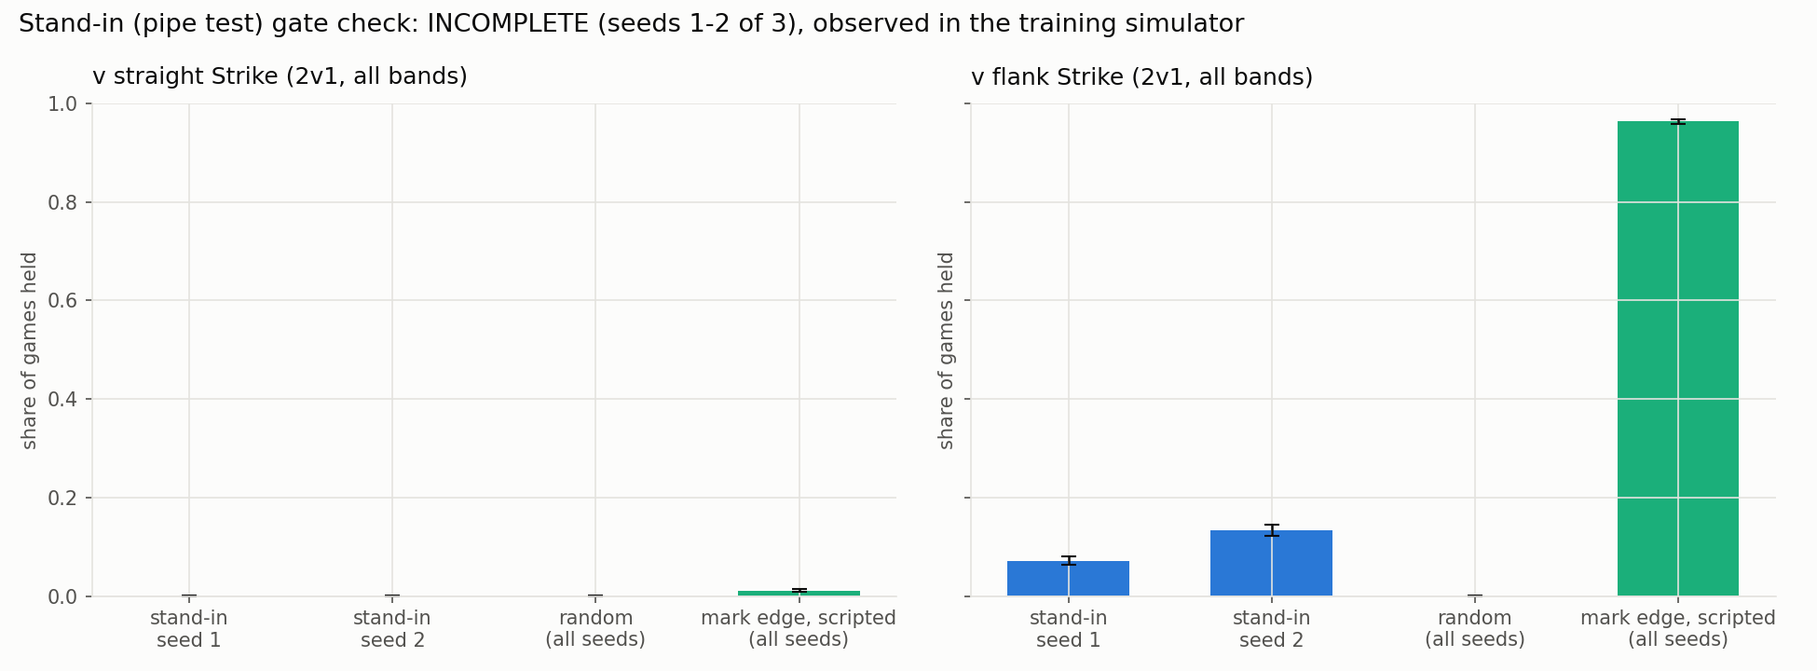
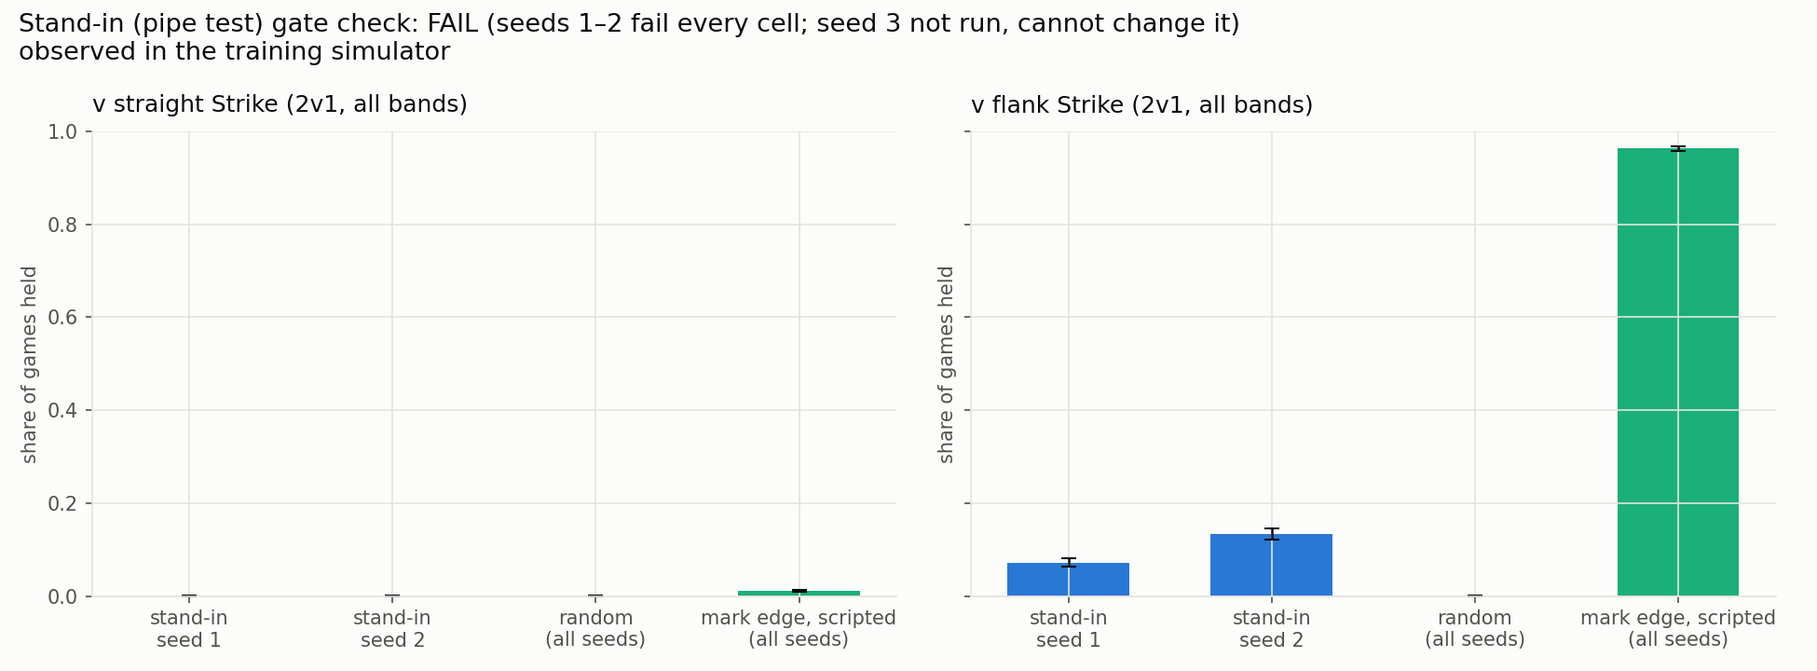
svg_training S2b stand-in fix round 1: T14 is FAIL (both seeds fail every cell), not INCOMPLETE; bars figure from the tool's own verdict (--note); [standin_v2] approval wording (owner not yet confirmed the table); minors

diff --git a/svg_training/scripts/make_s2b_figures.py b/svg_training/scripts/make_s2b_figures.py
@@ -2,7 +2,7 @@
 """Figures for the S2b records: one function per figure (Tasks 7 and 9; Task 8 adds its own).
 
   make_s2b_figures.py standin <out.png> runs/<seed 1 run> [runs/<seed 2 run> ...]
-  make_s2b_figures.py standin_bars <out.png> runs/<group with verdict.json> runs/<seed 1 score> [...]
+  make_s2b_figures.py standin_bars <out.png> runs/<group with verdict.json> runs/<seed 1 score> [...] [--note=<text>]
   make_s2b_figures.py steps <out.png> runs/<step-test run>                      (Task 7, s2b_steps.png)
   make_s2b_figures.py real_replay <out.png> runs/<step-test run>                (Task 7, s2b_real_replay.png)
   make_s2b_figures.py throughput <out.png> runs/<run>/results.jsonl [S0 results.jsonl]   (Task 7, s2b_throughput.png)
@@ -116,7 +116,11 @@ def standin(out: str, *run_dirs: str) -> None:
 
 
 def standin_bars(out: str, group_dir: str, *score_dirs: str) -> None:
-    """Gate evaluation: trained stand-in (per seed), random and guard_mark_edge, per Strike behaviour, Wilson 95 %."""
+    """Gate evaluation: trained stand-in (per seed), random and guard_mark_edge, per Strike behaviour, Wilson 95 %.
+    The title shows verdict.json's verdict as the tool wrote it; an argument ``--note=<text>`` among the score dirs
+    adds <text> in brackets after it (e.g. which seeds ran), so the verdict file is never edited for a figure."""
+    notes = [d[len("--note="):] for d in score_dirs if d.startswith("--note=")]
+    score_dirs = tuple(d for d in score_dirs if not d.startswith("--note="))
     from svg_training.core.metrics import wilson_interval
 
     ver = json.loads((pathlib.Path(group_dir) / "verdict.json").read_text())
@@ -153,7 +157,8 @@ def standin_bars(out: str, group_dir: str, *score_dirs: str) -> None:
         ax.set_xticks(range(len(bars)), [x[0] for x in bars])
         ax.set_ylim(0, 1)
         style(ax, f"v {BEHAVIOUR_LABEL.get(b, b)} Strike (2v1, all bands)", "", "share of games held")
-    fig.suptitle(f"Stand-in (pipe test) gate check: {ver['verdict']}, observed in the training simulator",
+    note = f" ({'; '.join(notes)})" if notes else ""
+    fig.suptitle(f"Stand-in (pipe test) gate check: {ver['verdict']}{note}\nobserved in the training simulator",
                  x=0.01, ha="left", fontsize=13, color=INK)
     fig.tight_layout()
     fig.savefig(out)

diff --git a/svg_training/tests/test_train_standin.py b/svg_training/tests/test_train_standin.py
@@ -651,3 +651,25 @@ def test_stop_at_a_past_time_stops_at_the_first_update(tmp_path):
     assert _in_process(["--seed", "1", "--name", "bad", *ABORT_ARGS, "--stop-at", "8 am",
                         "--runs-dir", str(tmp_path)]) == 2
     assert not (tmp_path / "bad").exists()
+
+
+def test_standin_bars_note_keeps_the_tool_verdict(tmp_path):    # fix round 1: no hand-edited verdict for a title
+    from make_s2b_figures import standin_bars
+    import matplotlib.pyplot as plt
+    seen = {}
+    real = plt.Figure.suptitle
+
+    def spy(self, t, *a, **k):
+        seen["title"] = t
+        return real(self, t, *a, **k)
+    cell = {"seed": 1, "behaviour": "strike_flank", "trained": {"hold_rate": 0.1, "ci_low": 0.08, "ci_high": 0.12,
+                                                                 "games": 3000, "guard_wins": 300},
+            "random": {"hold_rate": 0.0, "ci_low": 0.0, "ci_high": 0.001, "games": 3000, "guard_wins": 0}}
+    (tmp_path / "verdict.json").write_text(json.dumps({"verdict": "FAIL", "cells": [cell]}))
+    plt.Figure.suptitle = spy
+    try:
+        standin_bars(str(tmp_path / "b.png"), str(tmp_path), "--note=seed 3 not run")
+    finally:
+        plt.Figure.suptitle = real
+    assert seen["title"].startswith("Stand-in (pipe test) gate check: FAIL (seed 3 not run)")
+    assert json.loads((tmp_path / "verdict.json").read_text())["verdict"] == "FAIL"

diff --git a/svg_training/tests/test_s2b_config.py b/svg_training/tests/test_s2b_config.py
@@ -15,6 +15,9 @@ from svg_training.core.game_config import (  # noqa: E402
[2 lines of base64/hex data omitted]
 
+# sha256 of configs/s2b.toml [standin_v2] as the T14 runs of record read it (stored in both run folders' interface.toml)
[1 lines of base64/hex data omitted]
+
 S2B_TABLES = {"physics", "agreement", "agreement_gates", "step_tests", "step_gates", "throughput", "compare_games",
               "compare_games_gates", "video", "standin_s2b", "fallback_rate_gains", "tensorboard", "standin_v2"}
 
@@ -104,3 +107,8 @@ def test_s2_standin_tables_unchanged():                     # D14
     text = (CONFIGS / "s2.toml").read_text()
     for name, sha in STANDIN_SHA256.items():
         assert hashlib.sha256(table_text(text, name).encode()).hexdigest() == sha, name
+
+
+def test_standin_v2_table_pinned():                       # T14 runs of record (17 Nov 2026) used exactly this text
+    text = (CONFIGS / "s2b.toml").read_text()
+    assert hashlib.sha256(table_text(text, "standin_v2").encode()).hexdigest() == STANDIN_V2_SHA256

diff --git a/svg_training/records/2026-11-17_s2b_standin_isaac_record.md b/svg_training/records/2026-11-17_s2b_standin_isaac_record.md
@@ -2,15 +2,15 @@ Observed in the training simulator (tier 2, Isaac Lab), physics drone with the s
 
 # 2026-11-17T03:36:29+08:00 2026-11-17_s2b_standin_isaac record
 
-Result: **INCOMPLETE** against `[standin_gates]` of `configs/s2.toml` (unchanged): 2 of the 3 required seeds ran on this laptop; seed 3 was not started here and is queued for the home RTX 5090. Both seeds that ran fail their own gate cells (see Gates), so the gate cannot pass when seed 3 is added. Ledger row T14. Observed in the training simulator; nothing here is a flight result.
+Result: **FAIL** against `[standin_gates]` of `configs/s2.toml` (unchanged): seeds 1–2 fail every cell; seed 3 not run, cannot change it (the gate needs all 3 seeds to pass). Seed 3 was not started on this laptop and is queued for the home RTX 5090, to complete the record. Ledger row T14. Observed in the training simulator; nothing here is a flight result.
 
 ## What this run shows
 
-- **The pipe works on the Isaac Lab drones.** Each seed trained the full 100 M game-steps of `[standin_v2]` (762 updates, 4,096 games), with no NaN, no upset drone and no non-finite wrench. Each run folder loaded in `score.py` as a Guard strategy and was scored on the physics drone.
-- **Against the straight Strike drone nothing was learned.** Both seeds hold 0 of 3,000 games, the same as random Guards (0 of 3,000). The scripted reference `guard_mark_edge` holds only 1.1 % on the same games. In most of these games the stand-in Guard drones were not in the Strike drone's way: the median horizontal closest approach is 1.04–1.92 m, and the games end about as early as with random Guards (mean end step 96–217 against 84–217). In a few games a Guard drone did get in the way (5th percentile 0.41–0.67 m horizontally, 1.05–1.10 m in 3-D) and the Strike drone still got through, which is consistent with T13's over/under passing; this run did not test that.
-- **Against the flank Strike drone a little was learned, far short of the gate.** Here the Guard drones do meet the Strike drone: the median horizontal closest approach is 0.02–0.14 m in the lab and middle bands while the 3-D one stays near 1.0 m, so the drones pass one above the other (as in T13). Seed 1 holds 7.2 % (215 of 3,000) and seed 2 13.3 % (400 of 3,000), against random 0 % and `guard_mark_edge` 96.3 % (both seeds' games). The gate asks for at least 20 points above random. Both seeds started holding only after 40–60 M game-steps (figure 1).
+- **The pipe works on the Isaac Lab drones.** Each seed trained the 100 M game-steps of `[standin_v2]` (99,999,744 = 24,414 timesteps × 4,096 games; 762 updates, the last 30 timesteps collected after the last update), with no NaN, no upset drone and no non-finite wrench. Each run folder loaded in `score.py` as a Guard strategy and was scored on the physics drone.
+- **Against the straight Strike drone nothing was learned.** Both seeds hold 0 of 3,000 games, the same as random Guards (0 of 3,000). The scripted reference `guard_mark_edge` holds only 1.1 % on the same games. In most of these games the stand-in Guard drones were not in the Strike drone's way: the median horizontal closest approach is 1.04–1.92 m, and the games end about as early as with random Guards (mean end step 96–216 against 84–217). In a few games a Guard drone did get in the way (5th percentile 0.41–0.67 m horizontally, 1.05–1.10 m in 3-D) and the Strike drone still got through, which is consistent with T13's over/under passing; this run did not test that.
+- **Against the flank Strike drone a little was learned, far short of the gate.** Here the Guard drones do meet the Strike drone: the median horizontal closest approach is 0.02–0.14 m in the lab and middle bands while the 3-D one stays near 1.0 m, so the drones pass one above the other (as in T13). Seed 1 holds 7.2 % (215 of 3,000) and seed 2 13.3 % (400 of 3,000), against random 0 % and `guard_mark_edge` 96.3 % (both seeds' games). The gate asks for at least 20 points above random. The learning curve first shows a hold v flank between 31 and 42 M game-steps for seed 2 and between 52 and 63 M for seed 1; the curve points are 10.5 M apart (figure 1), so the start is known only to that spacing.
 - **Closest approach (3-D, scoring games):** the stand-in Guard drones come to 0.95 m (seed 1) and 0.95 m (seed 2) from a Strike drone, under the 1.10 m keep-out, as the scripted Guards do on the physics drone (`guard_mark_edge` 0.92–0.95 m). Random Guards come closer, 0.63–0.77 m. No scoring game had an upset drone.
-- **For the end goal:** the stand-in learner with `[standin_v2]` does not learn to hold on the physics drone in 100 M game-steps. On pure partner rules the same settings reached 0.06–0.32 v straight (Step B pilots). The likely difference is the game on the physics drone, where Strike drones can pass vertically (owner's option (a): this stays in the game; the Guard team must cover height); no tier 1 control run was made here, so this is not tested.
+- **For the end goal:** the stand-in learner with `[standin_v2]` does not learn to hold on the physics drone in 100 M game-steps. On pure partner rules the same settings reached 0.06–0.32 v straight (Step B pilots). The likely difference is the game on the physics drone, where Strike drones can pass vertically (owner's option (a): this stays in the game; the Guard team must cover height); no tier 1 control run was made here, so this is not tested. Also observed (from the saved networks): by 100 M the log std of vx, vy and vz fell from −1.6 to −2.5 … −3.2 (std about 0.04–0.08) in both seeds, so exploration had largely stopped while the hold v straight was still 0.
 
 ## Purpose
 
@@ -18,7 +18,9 @@ S2b Task 9, run 2: train the stand-in (2 Guard drones, skrl IPPO) against the sc
 
 ## Settings
 
[2 lines of base64/hex data omitted]
+- Lead's rulings behind two brief deviations: no PyTorch control run (run 1) tonight, the Step B pilots being the pure-rules control (`runs/sdd/s2b/progress.md`, 17 Nov); Isaac on the host, not the container, because the container has skrl 1.4.3 and the trainer needs skrl 2.x (same file).
+- `interface.toml [settings_values]` holds the table as read, including `preset = "pure"`, `wall_clock_cap_min = 45` and `seeds = [1, 2, 3]`; for these physics runs the effective values are in `[training]` and at the top level (preset physics, cap 180 min).
 - Owner's game-design ruling (17 Nov, option a): vertical over/under passing stays in the game, so for `physics` the vz axis is trained.
 - Command per seed: `train_standin.py --headless --config configs/s2.toml --settings standin_v2 --seed <s> --name 2026-11-17_s2b_standin_isaac_seed<s> --motion physics --eval-every-updates 80 --stop-at 2026-11-17T07:58:00` (host conda `env_isaaclab`).
 - **Deviation: learning-curve evaluation every 80 updates, not the default 20.** On the physics drone one evaluation flies the whole 4,096-game world for up to 1,200 steps (about 75–150 s). At 20 updates the evaluations alone would have cost about 90 min per seed and only one seed would have fitted before the laptop was packed. This is not expected to change training: the evaluation games use their own generator and the whole world state is written back after each one. That write-back was shown bit-exact on the PyTorch reference world only; on PhysX it is not verified (Task 9 report, concern 4). The curves have 11 points per seed instead of 40. The same value was used for both seeds.
@@ -37,15 +39,15 @@ S2b Task 9, run 2: train the stand-in (2 Guard drones, skrl IPPO) against the sc
 | 2 | flank | 0.133 (0.122–0.146) | 0.000 (0.000–0.001) | +0.133 | FAIL |
 | 3 | both | not run on the laptop; queued for the 5090 | | | — |
 
-Verdict: **INCOMPLETE** (2 of 3 seeds). `train_standin.py verdict` over the two seeds says FAIL because it needs 3 seeds; its output is kept in `runs/2026-11-17_s2b_standin_isaac/verdict_seeds_1_2/verdict.json`. No gate was moved.
+Verdict: **FAIL** (seeds 1–2 fail every cell; seed 3 not run, cannot change it). `train_standin.py verdict` over the two seeds gives FAIL with no seed passing (`seeds_passed = []`); a PASS needs every seed to pass and at least 3 seeds, so no seed 3 can turn it into a PASS. Its output is kept unedited in `runs/2026-11-17_s2b_standin_isaac/verdict_seeds_1_2/verdict.json`, and figure 2 is drawn from it. No gate was moved.
 
 ![Learning curves, seeds 1 and 2](../docs/figures/s2b_standin_isaac_curves.png)
 
-*Figure 1. Learning curves on the physics drone (256 evaluation games, mean actions; evaluation seed = gate seed, so not used to pick a checkpoint). Hold rate v straight stays 0; v flank rises after 40–60 M game-steps to about 0.1. Training speed rose once the other Isaac jobs left the GPU.*
+*Figure 1. Learning curves on the physics drone (256 evaluation games, mean actions; evaluation seed = gate seed, so not used to pick a checkpoint). Hold rate v straight stays 0; v flank first rises above 0 between 31 and 42 M game-steps (seed 2) and 52 and 63 M (seed 1), to about 0.1; points are 10.5 M apart. Training speed rose once the other Isaac jobs left the GPU.*
 
 ![Gate bars](../docs/figures/s2b_standin_isaac_bars.png)
 
-*Figure 2. Scoring games, 2v1, 3,000 per bar (Wilson 95 %): stand-in per seed, random and the scripted `guard_mark_edge` (information). Title says INCOMPLETE: seeds 1–2 of 3.*
+*Figure 2. Scoring games, 2v1, Wilson 95 %: stand-in per seed (3,000 games each), random and the scripted `guard_mark_edge` (information; 6,000 games each, both seeds' games pooled). Title: the tool's verdict (FAIL) as written, plus a note on the seeds (`--note`).*
 
 ## Per seed
 
@@ -69,7 +71,8 @@ Verdict: **INCOMPLETE** (2 of 3 seeds). `train_standin.py verdict` over the two 
 ## Commit
 
 - Training, seed 1: `997a5d2-dirty`; seed 2: `a288d69-dirty` (as each `interface.toml` says). The commits between them add only `scripts/workstation/` files. No file under `source/`, `configs/` or `params/`, and neither `scripts/train_standin.py` nor `scripts/score.py`, changed on disk after 03:36 (seed 1's start; checked by modification time at the end), so both seeds ran the same training and scoring code. The files that did change after 03:36: `scripts/workstation/*`, `scripts/make_s2b_flowchart.py`, `scripts/compare_backends.py`, `scripts/diag_vertical_pass.py` (other sessions) and `scripts/make_s2b_figures.py` (this task, the figure only).
-- Scoring (`scores.json` meta): seed 1 commit `a288d69`, code fingerprint `0395a6ffb496`; seed 2 commit `a3e1039`, code fingerprint `7236b4691a3a` (the fingerprint hashes all of source/, scripts/ and configs/, so it moves with any edit there).
+- Scoring (`scores.json` meta): seed 1 gate scoring commit `a288d69`, code fingerprint `0395a6ffb496`; seed 1 `guard_mark_edge` scoring commit `c4d722d`, fingerprint `fbcfdd12b4fb`; seed 2 gate and `guard_mark_edge` scoring commit `a3e1039`, fingerprint `7236b4691a3a` (the fingerprint hashes all of source/, scripts/ and configs/, so it moves with any edit there).
+- `git diff 997a5d2..a3e1039` also touches `scripts/score.py` and `source/svg_training/core/play.py` (Task 8). Those files were already on disk (modified 00:46 and 00:48) before seed 1 started at 03:36, so they were part of seed 1's `-dirty` tree too.
 
 ## Config
 
@@ -97,7 +100,7 @@ Training game-steps per second (training time only): seed 1 19.8–31.1 k (share
 
 ## Files
 
-- `runs/2026-11-17_s2b_standin_isaac/`: `gates.toml`, `preflight_seed1.txt` (exit 11), `preflight_seed2.txt` (exit 0), `launched.txt`, `verdict_seed1_only/`, `verdict_seeds_1_2/` (the tool output), `bars_input/verdict.json` (a copy whose verdict text reads INCOMPLETE, used only for the figure title), `curves_table.md`, `bars_table.md` (the numbers plotted).
+- `runs/2026-11-17_s2b_standin_isaac/`: `gates.toml`, `preflight_seed1.txt` (exit 11), `preflight_seed2.txt` (exit 0), `launched.txt`, `verdict_seed1_only/`, `verdict_seeds_1_2/` (the tool output), `curves_table.md`, `bars_table.md` (the numbers plotted).
 - `runs/2026-11-17_s2b_standin_isaac_seed{1,2}/` (interface.toml, agent.pt, curve.json, train_result.json, TensorBoard files) and their `.log`.
 - `runs/2026-11-17_s2b_standin_isaac_seed{1,2}_score/` (trained + random) and `..._score_mark_edge/` (information), with logs.
 - Figures: `docs/figures/s2b_standin_isaac_curves.png`, `docs/figures/s2b_standin_isaac_bars.png`.

diff --git a/svg_training/docs/S2B_RESULTS.md b/svg_training/docs/S2B_RESULTS.md
@@ -10,7 +10,7 @@ got here, step by step: [WHAT_WE_DID](WHAT_WE_DID.md#8-s2b-the-game-on-isaac-lab
 | Item | Value |
 |---|---|
 | Runs | T10 (do the two physics worlds agree), T11 (step tests against tier 1 and a real flight log), T12 (speed), T13 (scripted games on both backends), T14 (the stand-in trainer on Isaac Lab, 2 of 3 seeds) |
-| Verdicts | T10 **FAIL** on one gate (accepted by the owner); T11 **FAIL** on three gates; T12 information only, no gates; T13 **FAIL** on two gates; T14 **INCOMPLETE** (seed 3 not run; seeds 1 and 2 fail every gate cell, so it cannot pass) |
+| Verdicts | T10 **FAIL** on one gate (accepted by the owner); T11 **FAIL** on three gates; T12 information only, no gates; T13 **FAIL** on two gates; T14 **FAIL** (seeds 1–2 fail every gate cell; seed 3 not run, cannot change it) |
 | Main result | with random actions, the game runs on Isaac Lab drones at 42,590–262,190 drone-steps a second on this laptop. That is above 20,000, S0's [decision rule](S0_RESULTS.md#decision-rules--training-simulator-only) for "tier 2 is fast enough to train on, not only to cross-check" |
 | Main finding | on the physics drone a Strike drone often passes over or under a Guard drone, so against a straight Strike the scripted Guards hold 0–13 % of games, where tier 1 gave up to 95.1 %. The owner chose to keep this in the game (17 November 2026; option (a) of three put to him, §4) |
 | Trained | no strategy. The stand-in trainer (a pipe test, not a strategy) trained 2 seeds on Isaac Lab; the pipe worked end to end, but the Guards learned almost nothing (T14) |
@@ -219,8 +219,8 @@ pilots (pure rules, not of record) it held no games against the straight Strike.
   pure rules, yaw rate only on the Starling layer and the physics drone, where height speed now matters;
 - 100 million game-steps per seed instead of 50 million.
 
-The pilots' notes are not of record and not in git. The owner approved these settings for the runs of record on
-17 November 2026 ([T14 record](../records/2026-11-17_s2b_standin_isaac_record.md#settings)).
+The pilots' notes are not of record and not in git. `[standin_v2]` was taken as approved by the lead from the owner's go-ahead for Isaac runs (17 November, 03:25); the owner has not yet confirmed the table itself.
+([T14 record](../records/2026-11-17_s2b_standin_isaac_record.md#settings)).
 
 #### 5a. On the physics drone in Isaac Lab
 
@@ -239,14 +239,14 @@ per Strike behaviour and checked against the gate. SIM-ONLY yaw-rate gains
 
 **Figure 9.** Learning curves, seed 1 (blue) and seed 2 (orange), against game-steps: hold rate against each Strike
 behaviour (256 evaluation games), the game reward, the closest 3-D Guard–Strike approach, the safety-filter share and
-the training speed. Hold v straight stays at 0; v flank rises to about 0.1 after 40–60 M game-steps. Training
+the training speed. Hold v straight stays at 0; v flank first rises above 0 between 31 and 42 M game-steps (seed 2) and between 52 and 63 M (seed 1), points 10.5 M apart, to about 0.1. Training
 simulator, tier 2.
 
 <a id="fig-10"></a>
 ![Hold rate of the stand-in, random Guards and scripted mark-edge Guards, against each Strike behaviour](figures/s2b_standin_isaac_bars.png)
 
-**Figure 10.** Share of scoring games held, 2 v 1, 3,000 games per bar with 95 % intervals: stand-in seeds 1 and 2,
-random Guards and the scripted mark-edge Guards (for comparison). Left: against the straight Strike; right: against
+**Figure 10.** Share of scoring games held, 2 v 1, with 95 % intervals: stand-in seeds 1 and 2 (3,000 games each),
+random Guards and the scripted mark-edge Guards (for comparison; 6,000 games each, both seeds' games pooled). Left: against the straight Strike; right: against
 the flank Strike. The gate asks for the stand-in at least 0.20 above random in both panels.
 
 **What it shows.** The pipe works on the Isaac Lab drones: both seeds trained the full 100 M game-steps with no NaN
@@ -273,7 +273,7 @@ rules stand in as a control for now, but they are not runs of record. The PyTorc
 | T11 | step tests | 6 of 9 pass; timing against the real log (0.38 s against 0.10 s), speed against tier 1 (0.29 against 0.10 m/s) and timing against tier 1 (0.99 against 0.10 s) fail | **FAIL** | [T11](../records/2026-11-16_s2b_step_tests_record.md) |
 | T12 | speed | none; read-off 262,190 drone-steps a second, S0 line 20,000 | **INFO** | [T12](../records/2026-11-16_s2b_throughput_record.md) |
 | T13 | scripted games, paired | 2 of 4 pass (upsets, NaN); hold-rate gap (36 of 60 cells over 0.10) and closest approach (4 random-Guard cells over 0.10 m) fail | **FAIL** | [T13](../records/2026-11-17_s2b_scripted_compare_record.md) |
-| T14 | stand-in, Isaac Lab | `[standin_gates]`: seeds 1 and 2 fail all four cells (gain +0.000 v straight, +0.072 and +0.133 v flank, gate +0.20); seed 3 not run | **INCOMPLETE**, cannot pass | [T14](../records/2026-11-17_s2b_standin_isaac_record.md) |
+| T14 | stand-in, Isaac Lab | `[standin_gates]`: seeds 1 and 2 fail all four cells (gain +0.000 v straight, +0.072 and +0.133 v flank, gate +0.20); seed 3 not run | **FAIL** (seed 3 not run, cannot change it) | [T14](../records/2026-11-17_s2b_standin_isaac_record.md) |
 | — | stand-in, PyTorch (pure, Starling layer) | `[standin_gates]` | **NOT RUN** | — |
 | — | clips | none (pictures) | — | [media/README](media/README.md) |
 
@@ -301,7 +301,7 @@ All rows are in the [training ledger](../records/LEDGER.md).
 
 | # | Item | Why it matters | Recommendation |
 |---|---|---|---|
-| A | The stand-in on Isaac Lab (**NEAR-968: Stand-in trainer: prove the training pipe end to end.**) | T14 is INCOMPLETE: seed 3 is queued for the home RTX 5090, but seeds 1 and 2 already fail every gate cell. The pipe works; the learner does not learn to hold the zone on the physics drone | owner: whether seed 3 still runs on the 5090, and what to do about a stand-in that does not learn (a different learner, a curriculum, a tier 1 control run, or a new gate) is his call |
+| A | The stand-in on Isaac Lab (**NEAR-968: Stand-in trainer: prove the training pipe end to end.**) | T14 is FAIL: seeds 1 and 2 fail every gate cell; seed 3 (queued for the home RTX 5090) cannot change it. The pipe works; the learner does not learn to hold the zone on the physics drone | owner: whether seed 3 still runs on the 5090, and what to do about a stand-in that does not learn (a different learner, a curriculum, a tier 1 control run, or a new gate) is his call |
 | B | T13's hold-rate FAIL | it follows from option (a): the Strike drone now passes over or under scripted Guards that never move up or down | the FAIL stands; whether the S2b scripted-games gate is re-scoped later is the owner's call |
 | C | T13's 4 random-Guard closest-approach cells | the physics drones came 0.12–0.23 m closer than on tier 1 at their minimum; not diagnosed | owner decides whether to diagnose before S4 |
 | D | Task 8b, the registered Isaac Lab task `Isaac-SvG-StrikeGuard-v0` | the owner's answer 1: lets partners use Isaac Lab's usual tools and trainers | planned and not yet built; next session |

diff --git a/svg_training/records/LEDGER.md b/svg_training/records/LEDGER.md
@@ -17,4 +17,4 @@ Training ledger; separate from the flight ledger `docs/record/LEDGER.md`
 | T11 | 2026-11-16T23:57:14+08:00 | training simulator, tier 2 (Isaac Lab: rigid-body Starling, PX4 1.14 cascade, SIM-ONLY yaw-rate gains) and tier 1 (Starling layer, exploratory drone model), against real flight log log103 (13 Nov, drone_2) | 2026-11-16_s2b_step_tests | S2b step tests: hover 10 s, 5 steps through the full layers (physics vs tier 1), 6 held-out legs of log103 replayed at setpoint level; 30 deg tilt and PyTorch world INFO | FAIL | records/2026-11-16_s2b_step_tests_record.md |
 | T12 | 2026-11-17T00:18:38+08:00 | training simulator, tier 2 (Isaac Lab: rigid-body Starlings, PX4 1.14 cascade, SIM-ONLY yaw-rate gains; commander copy and safety filter on every pair) | 2026-11-16_s2b_throughput | S2b throughput: game on the physics drone, random actions, 2v1 and 5v3 x 1024 / 2048 / 4096 games, one process per point; best 262,190 drone-steps/s (S0 decision line 20,000) | INFO (no gates) | records/2026-11-16_s2b_throughput_record.md |
 | T13 | 2026-11-17T01:15:24+08:00 | training simulator, tier 2 (Isaac Lab: rigid-body Starlings, PX4 1.14 cascade, SIM-ONLY yaw-rate gains) against tier 1 (Starling layer, exploratory drone model); commander copy and safety filter on every pair; shared GPU | 2026-11-17_s2b_scripted_compare | S2b paired scripted games: 5 Guard x 2 Strike scripted strategies, 2v1 and 5v3, 3 bands, 1000 paired games per cell, neutral values (--no-local); 36 of 60 cells over the 0.10 hold gap (on the physics drone Strike drones pass over or under the Guards; the owner kept this in the game), 4 random-Guard cells over the 0.10 m closest-approach gap, 0 upsets, 0 NaN | FAIL | records/2026-11-17_s2b_scripted_compare_record.md |
-| T14 | 2026-11-17T03:36:29+08:00 | training simulator, tier 2 (Isaac Lab: rigid-body Starlings, PX4 1.14 cascade, SIM-ONLY yaw-rate gains; commander copy and safety filter on every pair); shared GPU | 2026-11-17_s2b_standin_isaac | S2b stand-in (pipe test) on the physics drone, settings [standin_v2] (owner-approved 17 Nov), 100 M game-steps per seed, seeds 1-2 trained and scored (2v1, 3 x 1000 games per behaviour); seed 3 queued for the RTX 5090. Hold v straight 0.000 / 0.000, v flank 0.072 / 0.133 (random 0.000) | INCOMPLETE (2 of 3 seeds; both seeds fail their cells) | records/2026-11-17_s2b_standin_isaac_record.md |
+| T14 | 2026-11-17T03:36:29+08:00 | training simulator, tier 2 (Isaac Lab: rigid-body Starlings, PX4 1.14 cascade, SIM-ONLY yaw-rate gains; commander copy and safety filter on every pair); shared GPU | 2026-11-17_s2b_standin_isaac | S2b stand-in (pipe test) on the physics drone, settings [standin_v2] (owner-approved 17 Nov), 100 M game-steps per seed, seeds 1-2 trained and scored (2v1, 3 x 1000 games per behaviour); seed 3 queued for the RTX 5090. Hold v straight 0.000 / 0.000, v flank 0.072 / 0.133 (random 0.000) | FAIL (seeds 1–2 fail every cell; seed 3 not run, cannot change it) | records/2026-11-17_s2b_standin_isaac_record.md |

diff --git a/svg_training/docs/DESIGN.md b/svg_training/docs/DESIGN.md
@@ -159,7 +159,7 @@ Each step ends on a number. S0–S5 deliver use 1.
 | **S0 Measure** | the project skeleton; minimal tier 1 and tier 2 environments with random actions; tier 1 with 0, 10 and 50 obstacles, range rays, line of sight and a stand-in distance field | steps per second against number of games recorded for both tiers on the laptop (done: T1, [S0_RESULTS](S0_RESULTS.md)) and a training workstation (to do), with a compute budget for S2–S4 |
 | **S1 Drone model** | velocity-step logs at the plug-in point (none exist yet; recorded by running `tools/sim.sh`, approved by the owner on 14 November 2026); stage 1 fitting script; tier 1 model; the safety filter port | fitted model reproduces a velocity step from the AirStack simulator within a limit set beforehand; filter port matches `cbf_filter.py` on recorded inputs |
 | **S2 One against one** | open arena (E0); game rules with contact tags, scripted opponents, evaluation suite, records | unit tests pass without Isaac; a trained Guard policy tags the scripted Strike behaviours at a rate set beforehand; that rate decides the control level (§7) |
-| **S2b The game on Isaac Lab drones** (added 16 November 2026) | the physics drone (PX4 1.14 cascade, rotor model, a rigid body in Isaac Lab and the PyTorch reference world) under the S2 game; paired scripted games on both backends; the stand-in trainer on both; clips; a registered Isaac Lab task (not yet built) | the gates of `configs/s2b.toml` have been run and recorded (T10–T14 run; T14, the stand-in, INCOMPLETE) |
+| **S2b The game on Isaac Lab drones** (added 16 November 2026) | the physics drone (PX4 1.14 cascade, rotor model, a rigid body in Isaac Lab and the PyTorch reference world) under the S2 game; paired scripted games on both backends; the stand-in trainer on both; clips; a registered Isaac Lab task (not yet built) | the gates of `configs/s2b.toml` have been run and recorded (T10–T14 run; T14, the stand-in, FAIL) |
 | **S3 Two against one** | random blocks and columns (E1); line-of-sight masking; opponent pool, start archive | hold rate from random starts and layouts against the scripted Strike behaviours at a rate set beforehand, with the interval reported; the 20 % figure is a reference only, its game conditions differ |
 | **S4 Five against three** | the construction-site world (E2): bake its distance field, random clutter; team-size and drop-out randomisation; tier 2 cross-check in the same world (S2b brought the open-arena part forward) | suite passes on tier 1, on held-out layouts too; gap to tier 2 within its limit |
 | **S5 Hand-over** | export and `interface.toml` | the owner approves a ROS 2 policy node in the AirStack tree (outside this folder); the policy flies in the AirStack simulator |

diff --git a/svg_training/README.md b/svg_training/README.md
@@ -15,7 +15,7 @@ official run whose numbers we keep is the *run of record* (both in the [glossary
 | S0 (throughput benchmark) | run of record T1: **FAIL** on one [gate](docs/GLOSSARY.md) (1 of 96 points lost to an Isaac start-up crash) | every number verified; both speed [decision rules](docs/GLOSSARY.md) met → [S0 results](docs/S0_RESULTS.md) |
 | S1 (drone model and safety filter) | built, run and closed 15 Nov: filter copy T2 **FAIL** (accepted by the owner on the exact counts); simulator fit T3 **FAIL**; real-log fit exploratory; tier 1 with the real chain T4 information only; no S1 gate on the drone model passed yet | [S1 results](docs/S1_RESULTS.md); [S1 plan](docs/plans/2026-11-15-s1-drone-model-and-safety-filter.md) |
 | S2 (the game and the plug-in point) | built, reviewed and CLOSED 16 Nov (final review on the whole stage, one fix wave). Faster filter T8 **PASS**; drone-model check T5 **FAIL**; scripted reference T9 information only; stand-in trainer moved to S2b | [S2 results](docs/S2_RESULTS.md); [S2 plan](docs/plans/2026-11-15-s2-game-and-plug-in.md) |
-| S2b (the game on Isaac Lab drones) | built and run through Task 8, 16–17 Nov; not closed. Two physics worlds agree T10 **FAIL** (accepted by the owner); step tests T11 **FAIL**; speed T12 information only; scripted games on both backends T13 **FAIL** (Strike drones pass over or under Guards on the physics drone; the owner kept this in the game); stand-in trainer on Isaac Lab T14 **INCOMPLETE** (2 of 3 seeds; both fail every gate cell, so it cannot pass); registered Isaac Lab task not yet built | [S2b results](docs/S2B_RESULTS.md); [S2b plan](docs/plans/2026-11-16-s2b-isaac-lab-environment.md) |
+| S2b (the game on Isaac Lab drones) | built and run through Task 8, 16–17 Nov; not closed. Two physics worlds agree T10 **FAIL** (accepted by the owner); step tests T11 **FAIL**; speed T12 information only; scripted games on both backends T13 **FAIL** (Strike drones pass over or under Guards on the physics drone; the owner kept this in the game); stand-in trainer on Isaac Lab T14 **FAIL** (seeds 1–2 fail every gate cell; seed 3 not run, cannot change it); registered Isaac Lab task not yet built | [S2b results](docs/S2B_RESULTS.md); [S2b plan](docs/plans/2026-11-16-s2b-isaac-lab-environment.md) |
 | S3–S5 | not started | [DESIGN §8](docs/DESIGN.md#8-build-order) |
 | Training | no strategy trained yet; the stand-in trainer (a pipe test) trained 2 seeds on Isaac Lab: the pipe works, the Guards learned almost nothing (T14) | [S2b results §5](docs/S2B_RESULTS.md#5-the-stand-in-trainer) |
 

diff --git a/svg_training/docs/WHAT_WE_DID.md b/svg_training/docs/WHAT_WE_DID.md
@@ -257,9 +257,9 @@ trained on the fast model is trusted, it should give the same answers on a drone
    Strike drone 1 mm higher made tier 1's Guards lose every game too.
    The owner chose on 17 November to keep this in the game: Guards will have to learn to cover height.
 7. **The stand-in trainer.** It first learned nothing: its starting moves were almost pure noise. In pilots (not
-   of record), smaller starting noise and more game-steps let it learn a little. On the physics drone (run T14, 2 of 3 seeds)
-   the pipe worked end to end, but the Guards learned almost nothing: 0 % held against the straight Strike, 7–13 %
-   against the flank Strike. Why is not tested. Seed 3 waits for the home RTX 5090.
+   of record), smaller starting noise and more game-steps let it learn a little. On the physics drone (run T14, FAIL: seeds 1–2 fail every gate cell;
+   seed 3 not run, cannot change it) the pipe worked end to end, but the Guards learned almost nothing: 0 % held
+   against the straight Strike, 7–13 % against the flank Strike. Why is not tested. Seed 3 waits for the home RTX 5090.
 
 <a id="fig-4"></a>
 ![Share of games the Guard team held, tier 1 against the physics drone](figures/s2b_scripted_compare.png)

diff --git a/svg_training/docs/PLUG_IN.md b/svg_training/docs/PLUG_IN.md
@@ -268,8 +268,11 @@ PYTHONPATH=source python scripts/score.py --guard runs/<name>,random --strike st
     --sizes 2v1 --presets pure --no-local --out runs/<name>_score/
 PYTHONPATH=source python scripts/train_standin.py --seed 1 --name <new name>                    # pure rules
 PYTHONPATH=source python scripts/train_standin.py --seed 1 --name <new name> --motion starling  # Starling layer
-PYTHONPATH=source python scripts/train_standin.py --seed 1 --name <new name> --motion physics --headless
-    # Isaac Lab physics drone, on the host after scripts/isaac_preflight.sh (needs skrl 2.x)
+PYTHONPATH=source python scripts/train_standin.py --seed 1 --name <new name> --motion physics --headless \
+    --settings standin_v2 --eval-every-updates 80
+    # Isaac Lab physics drone, on the host after scripts/isaac_preflight.sh (needs skrl 2.x); --settings standin_v2 =
+    # configs/s2b.toml [standin_v2], the settings of ledger T14 (the committed [standin] learned nothing in the pilots);
+    # --eval-every-updates 80 gives curves comparable with T14's
 tensorboard --logdir runs/        # then open http://localhost:6006; game/ curves at every evaluation
 ```
 

diff --git a/svg_training/CLAUDE.md b/svg_training/CLAUDE.md
@@ -17,8 +17,8 @@ scripted reference T9 = INFO; the stand-in trainer moved to S2b ([docs/S2_RESULT
 Starlings in Isaac Lab (the physics drone: PX4 1.14 cascade with the drone's gains, SIM-ONLY yaw-rate gains by the
 owner's ruling). Two physics worlds agree T10 = FAIL (accepted by the owner), step tests T11 = FAIL, speed T12 = INFO,
 scripted games on both backends T13 = FAIL: on the physics drone Strike drones pass over or under Guards, and the
-owner kept this in the game (option (a), 17 November). Stand-in trainer on Isaac Lab T14 = INCOMPLETE (seeds 1–2 run, both fail every gate cell; seed 3 queued for the
-home RTX 5090); the registered
+owner kept this in the game (option (a), 17 November). Stand-in trainer on Isaac Lab T14 = FAIL (seeds 1–2 fail every gate cell; seed 3 not run, cannot change it; queued
+for the home RTX 5090); the registered
 Isaac Lab task (Task 8b) is not yet built ([docs/S2B_RESULTS.md](docs/S2B_RESULTS.md)).
 
 ## Read first

diff --git a/svg_training/docs/claude/HANDOFF.md b/svg_training/docs/claude/HANDOFF.md
@@ -251,10 +251,10 @@ stay out of git; real flights of a contact policy should start with a virtual co
 
 ## 5. Open items
 
-### 5a. On the home RTX 5090: S2b stand-in seed 3 (ledger T14 is INCOMPLETE without it)
+### 5a. On the home RTX 5090: S2b stand-in seed 3 (ledger T14 is FAIL already; seed 3 completes the record)
 
-Seeds 1–2 ran on the laptop (17 Nov, record `records/2026-11-17_s2b_standin_isaac_record.md`); both FAIL their gate
-cells, so seed 3 cannot turn T14 into a PASS, but it completes the record. From `svg_training/`, with
+Seeds 1–2 ran on the laptop (17 Nov, record `records/2026-11-17_s2b_standin_isaac_record.md`); both FAIL every gate
+cell, so T14 is FAIL and seed 3 cannot change it, but it completes the record. From `svg_training/`, with
 `export PYTHONPATH=source`, `P=~/miniconda3/envs/env_isaaclab/bin/python`, after `scripts/isaac_preflight.sh --approved-headless`,
 inside `tmux`:
 
